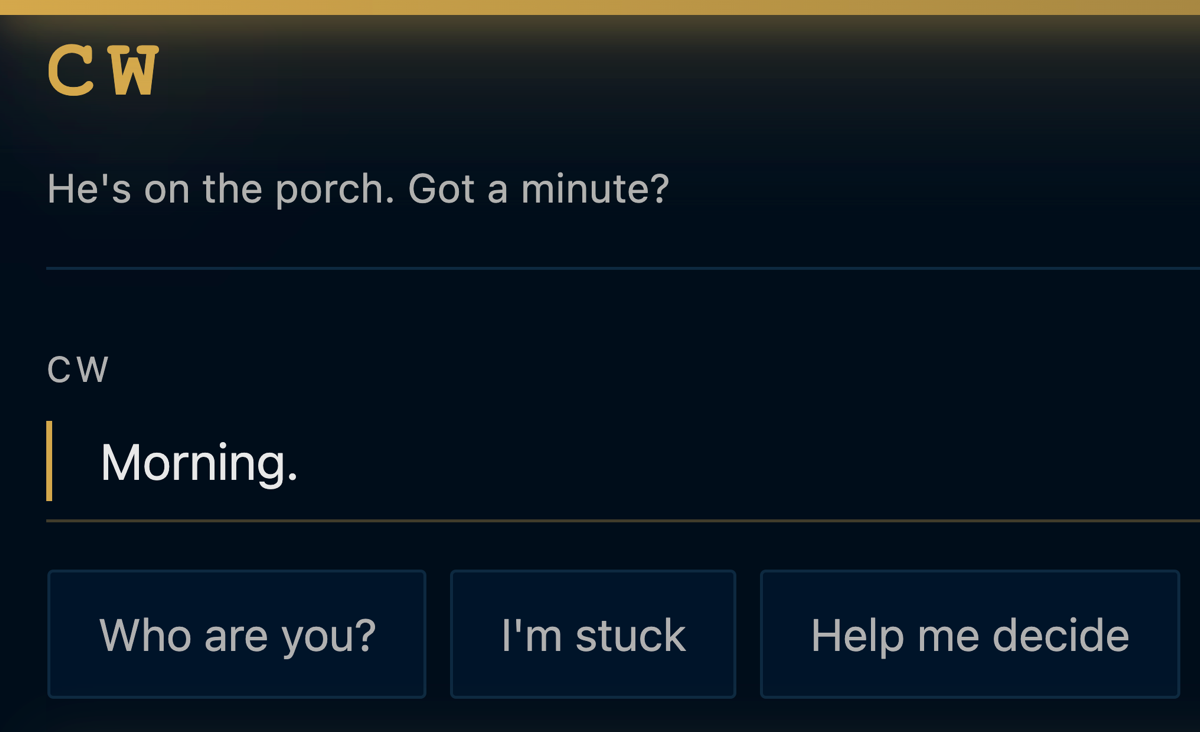
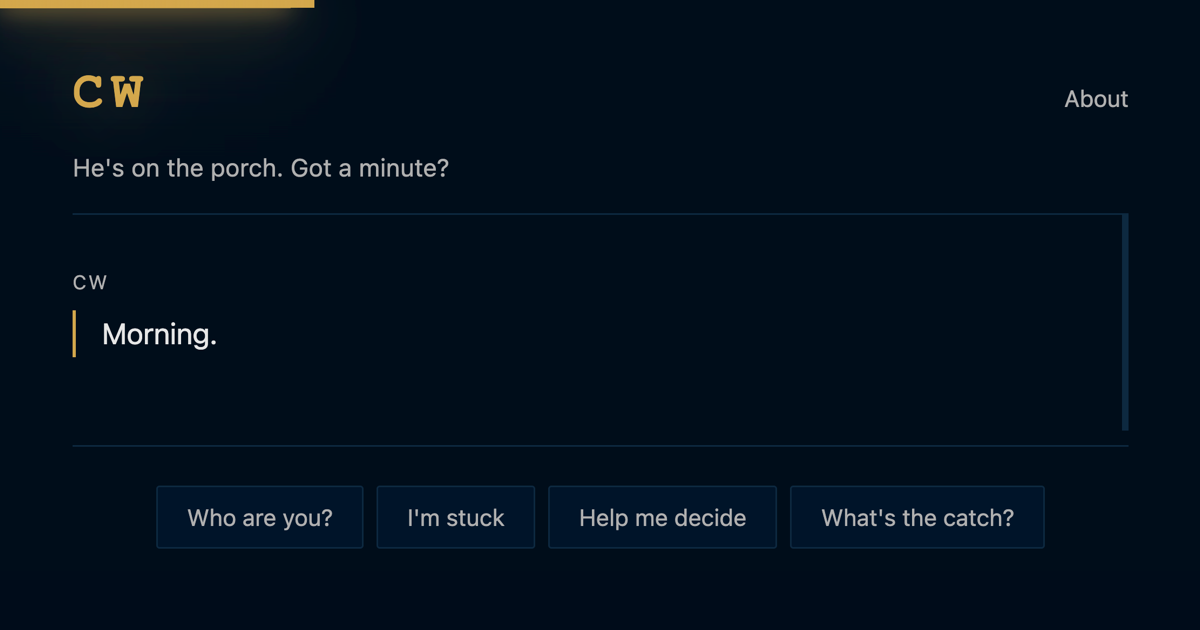
fix: update OG image to 1200x630 with porch light visible

diff --git a/index.html b/index.html
@@ -20,7 +20,7 @@
     <meta property="og:url" content="https://claudewill.io/">
     <meta property="og:image" content="https://claudewill.io/images/og-preview.png">
     <meta property="og:image:width" content="1200">
-    <meta property="og:image:height" content="732">
+    <meta property="og:image:height" content="630">
     <meta name="twitter:card" content="summary_large_image">
     <meta name="twitter:title" content="CW's Porch | A Conversation with Claude William">
     <meta name="twitter:description" content="Pull up a chair. An AI built on the practical wisdom of Claude William Simmons (1903-1967). Direct answers. No fuss. Just help.">
